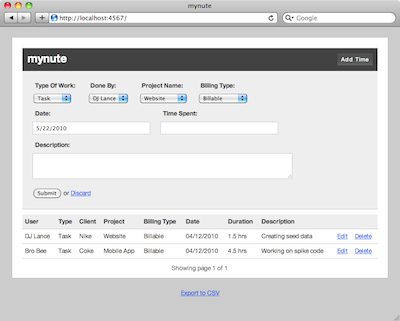
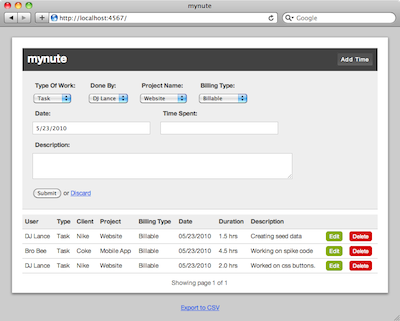
making edit and delete links look more like buttons

Changed region(s): [[0.03, 0.6854, 0.99, 0.9657]]

diff --git a/views/stylesheets/main.sass b/views/stylesheets/main.sass
@@ -20,6 +20,9 @@ a
 #main
   background-color: #fff
   border: solid 1px #bbb
+  -moz-box-shadow: 0px 2px 5px #666
+  -webkit-box-shadow: 0px 2px 5px #666
+  box-shadow: 0px 2px 5px #666
   width: 720px
   margin: 20px auto
   padding: 10px
@@ -94,6 +97,7 @@ form#time-entry
   width: 100%
   font-size: 12px
   margin: 0 0 10px
+
   th
     background-color: #eee
     border-bottom: solid 1px #ccc
@@ -102,6 +106,24 @@ form#time-entry
   td
     border-bottom: solid 1px #ccc
     padding: 5px
+
+.edit, .delete
+  color: #fff
+  font-size: 11px
+  padding: 4px 7px
+  -moz-border-radius: 5px
+  -webkit-border-radius: 5px
+  border-radius: 5px
+  text-decoration: none
+
+  &:visited
+    color: #fff
+
+.edit
+  background-color: #85AC05
+
+.delete
+  background-color: #D40000
 
 #pager
   font-size: 12px

diff --git a/README.md b/README.md
@@ -8,11 +8,14 @@ your entered time to CSV.  Mynute can be hosted locally
 or on heroku.  Currently, it's secured using HTTP basic auth, but I plan to
 add support for warden in a future version.
 
-There aren't any screens available for managing user, client or project data.
-There is, however, a *db/seeds.rb* and a rake task that you can use for seeding
-a fresh install.
-
 ![Screenshot of Mynute](http://github.com/ecavazos/mynute/raw/master/public/images/mynute_ss.png)
+
+Setup
+-----
+
+There aren't any screens available for managing user, client or project data.
+There is, however, a *db/seeds.rb* file and a rake task that you can use for seeding
+a fresh install.
 
 TODO
 ----
@@ -27,3 +30,4 @@ TODO
 * Add team support
 * Display errors closer to the user event that caused the error
 * Add user defined sorting
+* DRY SASS
